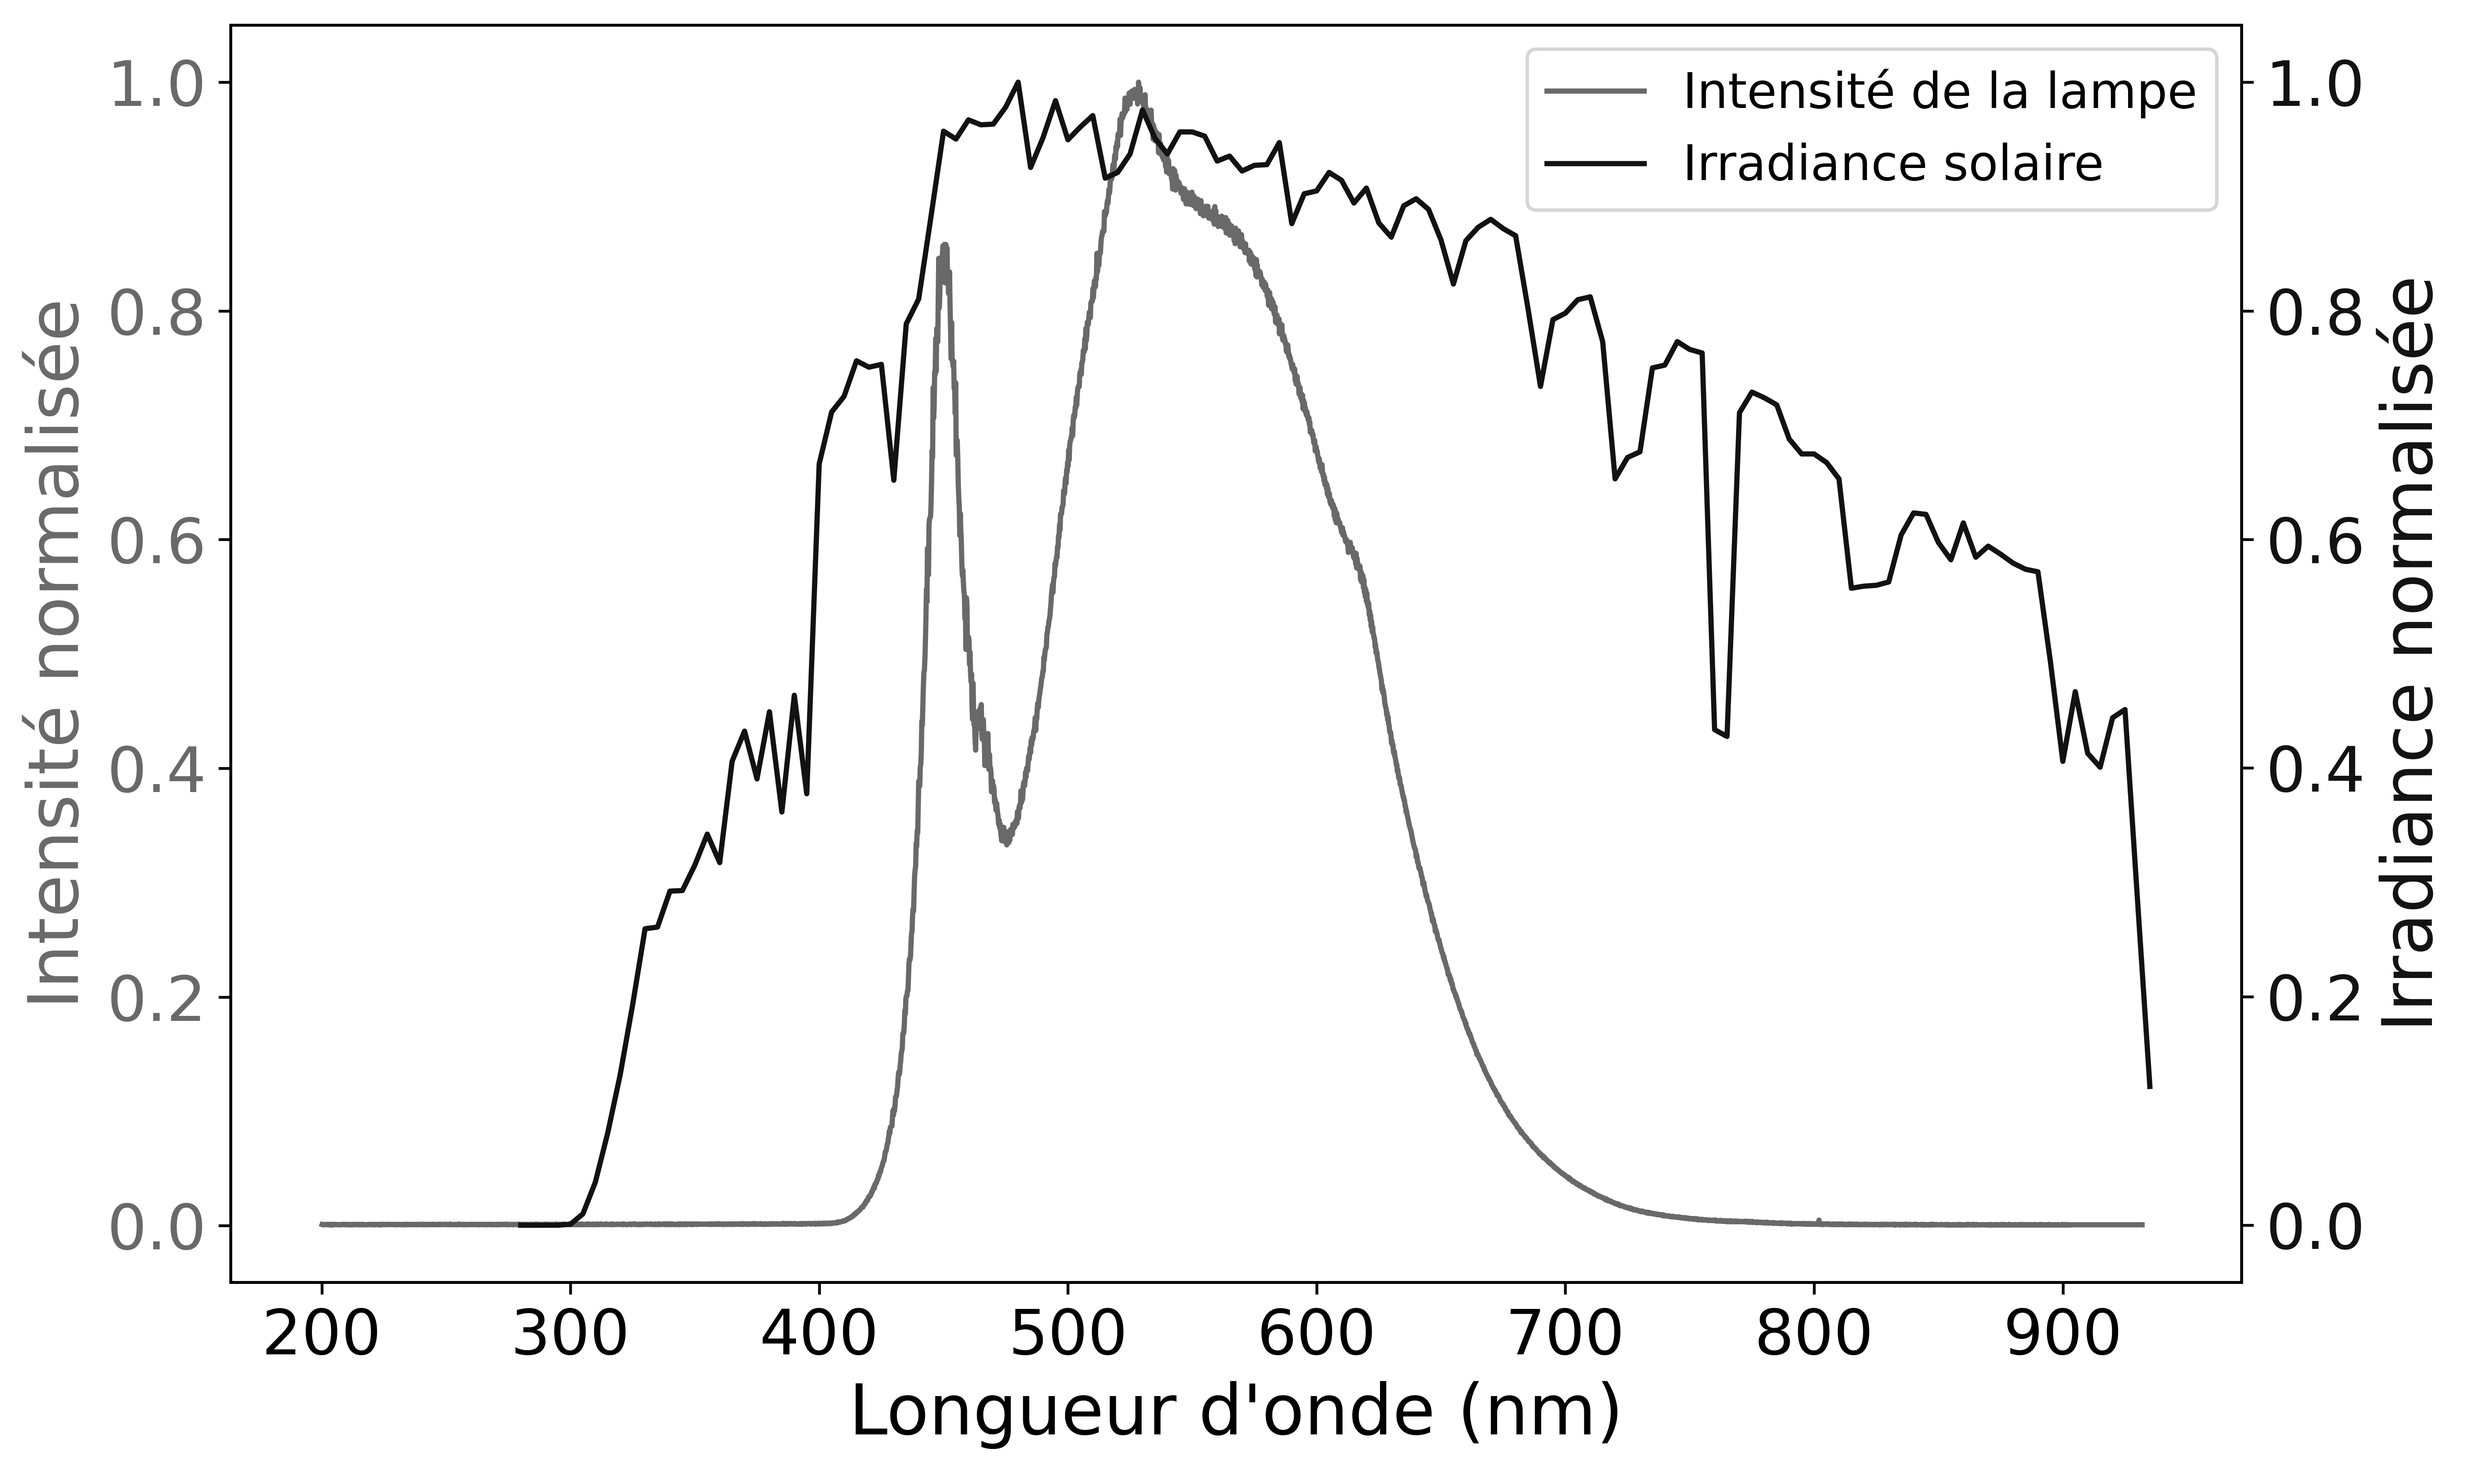
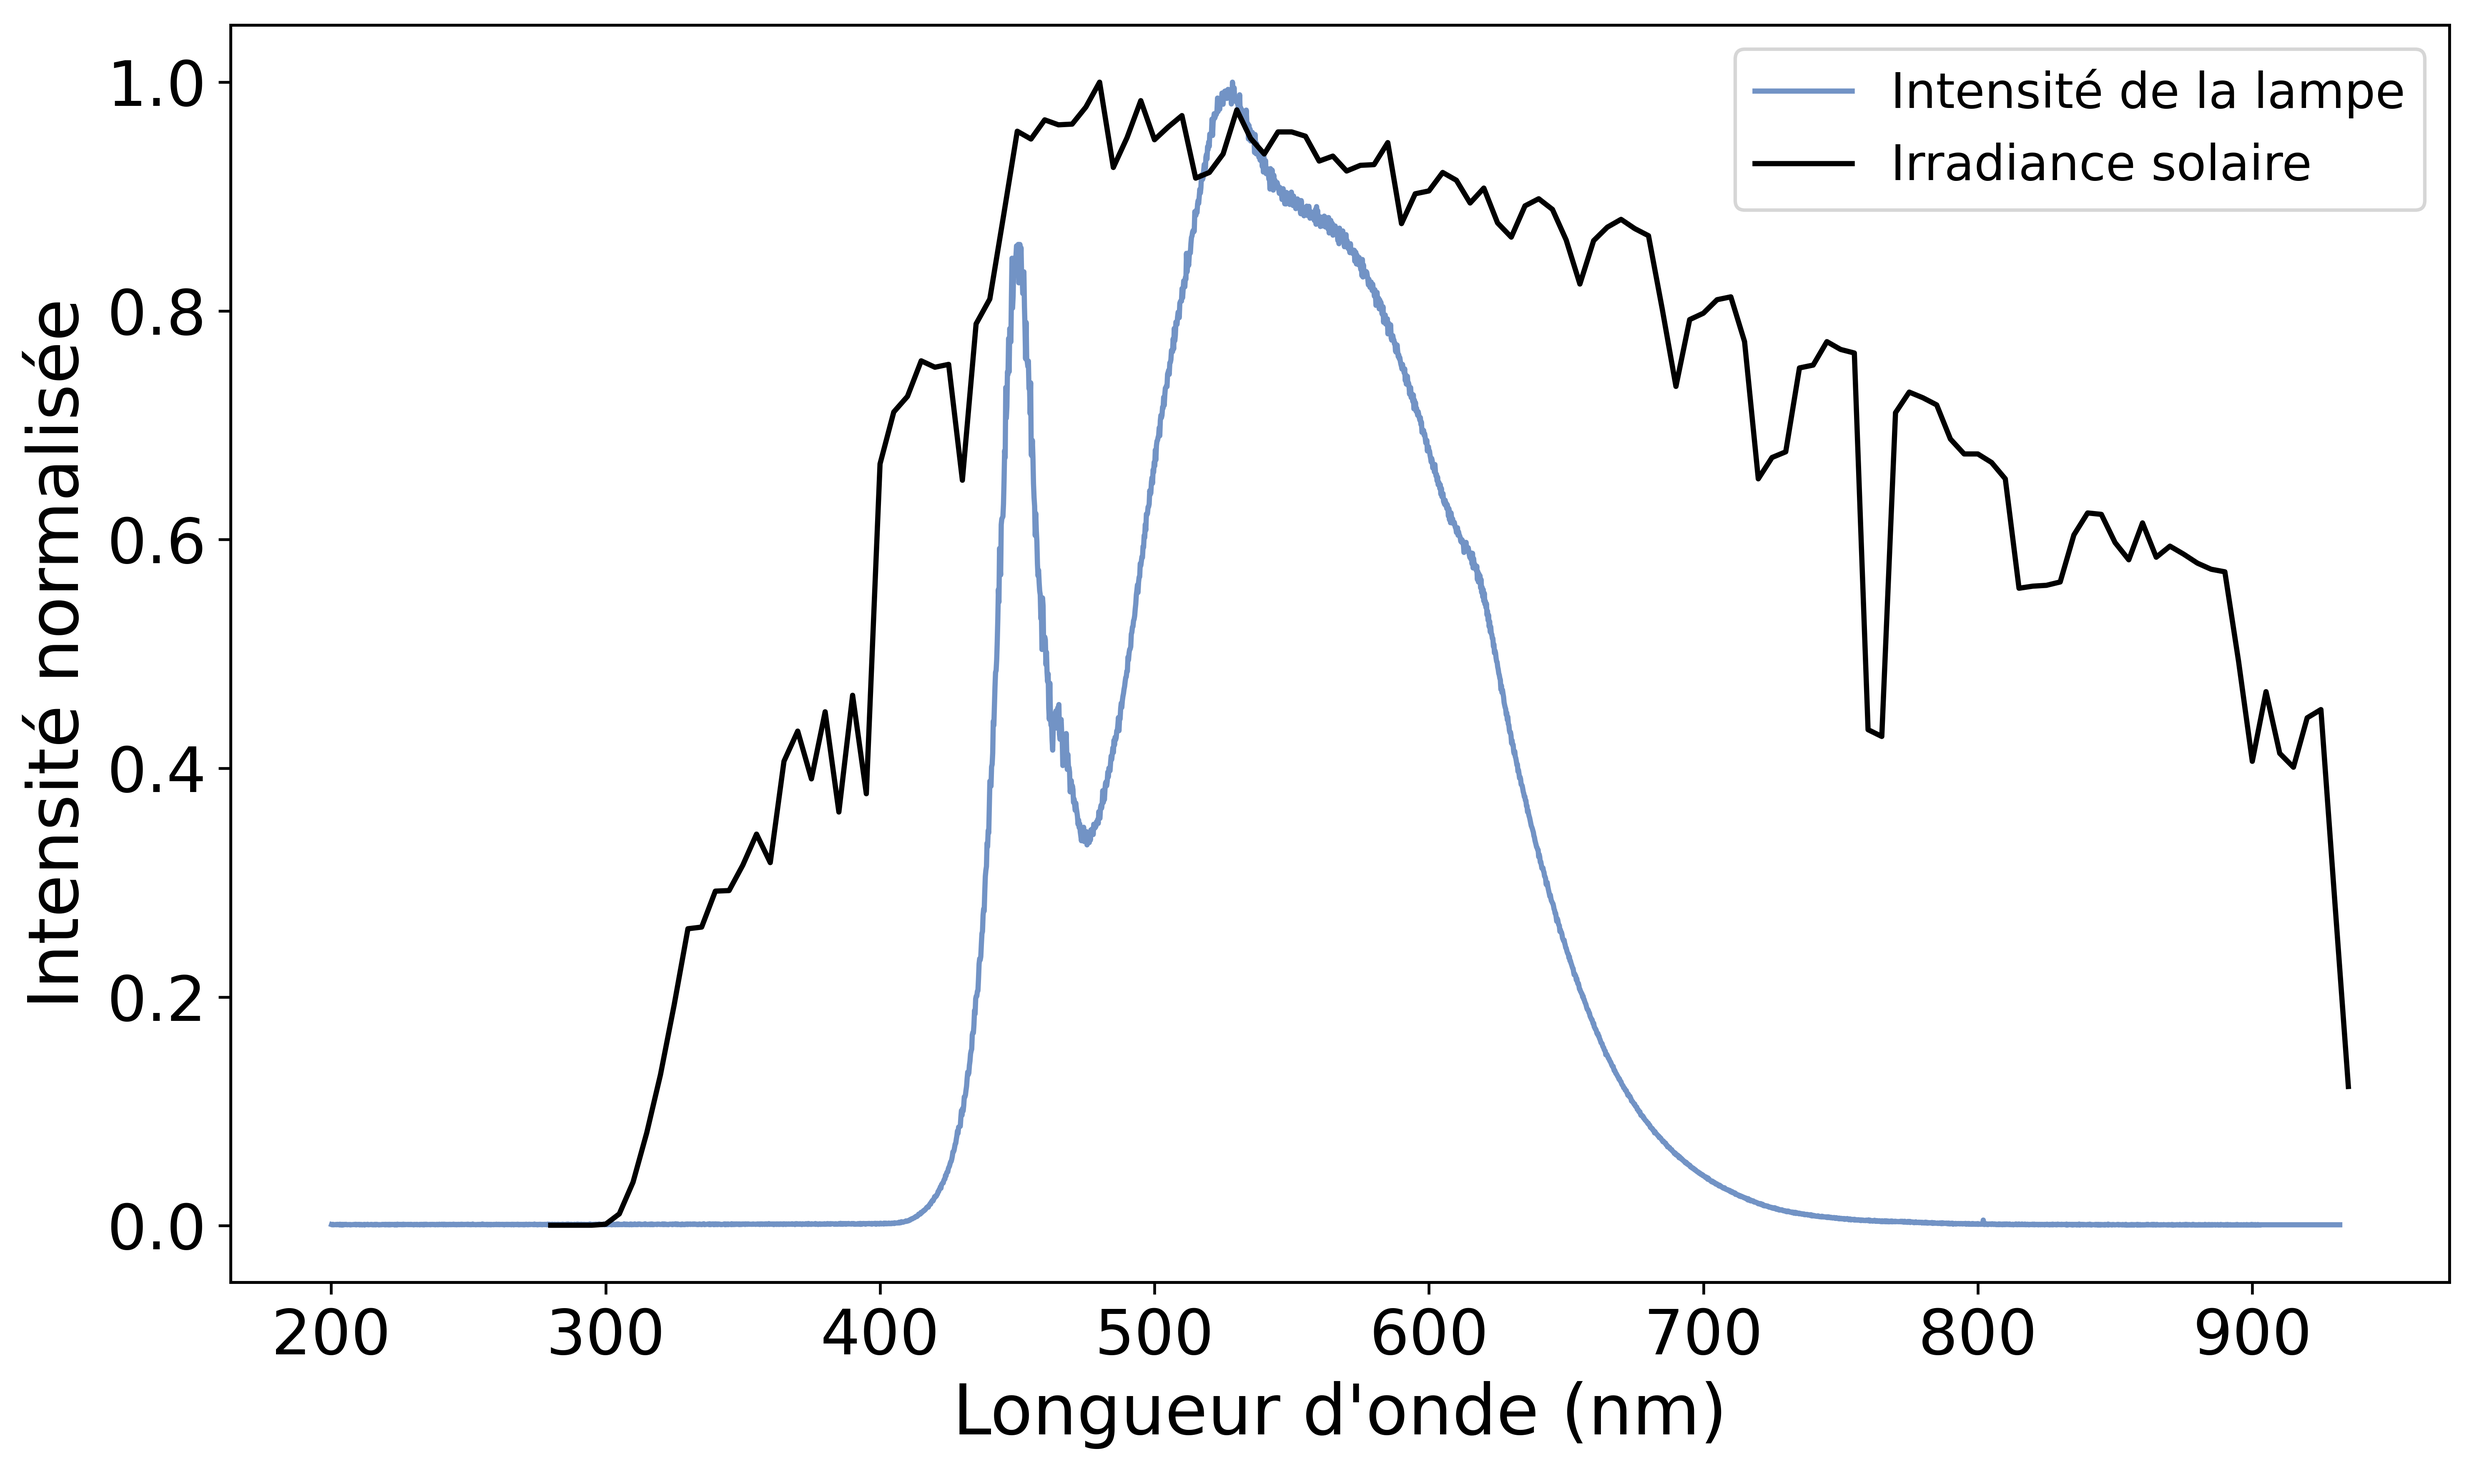
Graphique couleur + pointillé, axes dédoublés dans comparaison

diff --git a/Projet_1/intensite_x_distance.py b/Projet_1/intensite_x_distance.py
@@ -4,28 +4,27 @@ import os
 import pandas as pd
 from scipy.optimize import curve_fit
 
-#lampe 1 : MN
-#lampe 2 : MEN
-#lampe 3 : AC
-#lampe 4 : AT
-
-
-lampe_1 ="#B0B0B0"
-lampe_2 = "#727272"
-lampe_3 = "#313131"
-lampe_4 = "#000000"
+# Couleurs et styles option C
+C1, C2, C3, C4 = "black", "#7293C5", "#B99851", "#3B6D11"
+LS1, LS2, LS3, LS4 = '-', '--', ':', '-.'
 
 dossier_script = os.path.dirname(os.path.abspath(__file__))
-fichier_csv = os.path.join(dossier_script, "Projet 1.xlsx")
+fichier_xlsx = os.path.join(dossier_script, "Projet 1.xlsx")
 
-spectre = pd.read_excel(fichier_csv, sheet_name="Obj2", skiprows=1)
+df = pd.read_excel(fichier_xlsx, sheet_name="Obj2", skiprows=1)
+x  = df["Distance (cm)"].to_numpy()
+y1 = df["MN"].to_numpy()   # Lampe 1
+y2 = df["MEN"].to_numpy()  # Lampe 2
+y3 = df["AC"].to_numpy()   # Lampe 3
+y4 = df["AT"].to_numpy()   # Lampe 4
 
-x = spectre["Distance (cm)"].to_numpy()
-
-y1 = spectre["AT"].to_numpy()
-y2 = spectre["AC"].to_numpy()
-y3 = spectre["MEN"].to_numpy()
-y4 = spectre["MN"].to_numpy()
+def incertitude(y):
+    err = np.zeros_like(y, dtype=float)
+    err[y > 20000]                     = 1000  # plage 200 000 lux
+    err[(y > 2000) & (y <= 20000)]     = 100   # plage 20 000 lux
+    err[(y > 200)  & (y <= 2000)]      = 10    # plage 2 000 lux
+    err[y <= 200]                      = 1     # plage 200 lux
+    return err
 
 def modele(x, a, b):
     return a * np.exp(b * x)
@@ -40,38 +39,38 @@ def r2(y, y_pred):
     ss_tot = np.sum((y - np.mean(y)) ** 2)
     return 1 - ss_res / ss_tot
 
-x_fit = np.linspace(x.min(), x.max(), 300)
+donnees = [
+    ("Lampe 1", y1, C1, 'd', LS1),
+    ("Lampe 2", y2, C2, '^', LS2),
+    ("Lampe 3", y3, C3, 's', LS3),
+    ("Lampe 4", y4, C4, 'o', LS4),
+]
 
-params1, a = curve_fit(modele, x, y1, p0=p0_initial(x, y1), maxfev=5000)
-params2, b = curve_fit(modele, x, y2, p0=p0_initial(x, y2), maxfev=5000)
-params3, c = curve_fit(modele, x, y3, p0=p0_initial(x, y3), maxfev=5000)
-params4, d = curve_fit(modele, x, y4, p0=p0_initial(x, y4), maxfev=5000)
+x_fit = np.linspace(0, 60, 300)
+params_list = []
 
-y1_fit = modele(x_fit, *params1)
-y2_fit = modele(x_fit, *params2)
-y3_fit = modele(x_fit, *params3)
-y4_fit = modele(x_fit, *params4)
+print("=== Équations d'ajustement ===")
+for nom, y, c, m, ls in donnees:
+    p, _ = curve_fit(modele, x, y, p0=p0_initial(x, y), maxfev=5000)
+    params_list.append(p)
+    print(f"{nom}: I(x) = {p[0]:.1f} x exp({p[1]:.4f} x x)  |  R2 = {r2(y, modele(x, *p)):.4f}")
 
-print(f"AT  (4): I(x) = {params1[0]:.4f} * exp({params1[1]:.4f} * x)  |  R² = {r2(y1, modele(x, *params1)):.4f}")
-print(f"AC  (3): I(x) = {params2[0]:.4f} * exp({params2[1]:.4f} * x)  |  R² = {r2(y2, modele(x, *params2)):.4f}")
-print(f"MEN (2): I(x) = {params3[0]:.4f} * exp({params3[1]:.4f} * x)  |  R² = {r2(y3, modele(x, *params3)):.4f}")
-print(f"MN  (1): I(x) = {params4[0]:.4f} * exp({params4[1]:.4f} * x)  |  R² = {r2(y4, modele(x, *params4)):.4f}")
+fig, ax = plt.subplots(figsize=(10, 6))
 
-plt.figure(figsize=(10, 6))
-plt.plot(x, y4, label="Lampe 1", linestyle='', marker='^', markersize=4, color=lampe_1)
-plt.plot(x, y3, label="Lampe 2", linestyle='', marker='^', markersize=4, color=lampe_2, markerfacecolor='none')
-plt.plot(x, y2, label="Lampe 3", linestyle='', marker='o', markersize=4, color=lampe_3)
-plt.plot(x, y1, label="Lampe 4", linestyle='', marker='o', markersize=4, color=lampe_4, markerfacecolor='none')
+ax.axhline(10000, color='black', linestyle='--', linewidth=1.2, label='10 000 lux')
 
-plt.plot(x_fit, y4_fit, linestyle='-', color=lampe_1)
-plt.plot(x_fit, y3_fit, linestyle='-', color=lampe_2)
-plt.plot(x_fit, y2_fit, linestyle='-', color=lampe_3)  
-plt.plot(x_fit, y1_fit, linestyle='-', color=lampe_4)
+for (nom, y, c, m, ls), p in zip(donnees, params_list):
+    err = incertitude(y)
+    ax.errorbar(x, y, yerr=err, label=nom, fmt=m, markersize=5,
+                color=c, capsize=3, linestyle='', elinewidth=0.8)
+    ax.plot(x_fit, modele(x_fit, *p), linestyle=ls, color=c, linewidth=1.5, alpha=0.8)
 
-plt.xlabel("Distance (cm)", fontsize=20)
-plt.ylabel("Éclairement (lux)", fontsize=20)
-plt.xticks(fontsize=18)
-plt.yticks(fontsize=18)
-plt.legend(fontsize=20)
+ax.set_xlabel("Distance (cm)", fontsize=20)
+ax.set_ylabel("Intensite (lux)", fontsize=20)
+ax.set_xlim(-1, 60)
+ax.set_ylim(-1000, 48000)
+ax.tick_params(labelsize=18)
+ax.legend(fontsize=16)
+plt.tight_layout()
 plt.savefig("intensite_x_distance.png", bbox_inches='tight', dpi=600)
 plt.show()

diff --git a/Projet_1/Comparaison_soleil_spectre.py b/Projet_1/Comparaison_soleil_spectre.py
@@ -26,24 +26,23 @@ y_lampe_norm = y_lampe / np.max(y_lampe)
 fig, ax1 = plt.subplots(figsize=(10, 6))
 
 # axe compte
-couleur_lampe = "#696969"
+couleur_lampe = "#7293C5"
 ax1.plot(x_lampe, y_lampe_norm, color=couleur_lampe, label="Intensité de la lampe")
-ax1.set_xlabel("Longueur d'onde (nm)", fontsize=20)
-ax1.set_ylabel("Intensité normalisée", fontsize=20, color=couleur_lampe)
-ax1.tick_params(axis='y', labelcolor=couleur_lampe, labelsize=18)
+ax1.tick_params(axis='y', labelsize=18)
 ax1.tick_params(axis='x', labelsize=18)
 
 # axe irradiance
-couleur_soleil = "#121212"
+couleur_soleil = "black"
 ax2 = ax1.twinx()
 ax2.plot(x_soleil, y_soleil_norm, color=couleur_soleil, label="Irradiance solaire")
-ax2.set_ylabel("Irradiance normalisée", fontsize=20, color=couleur_soleil)
-ax2.tick_params(axis='y', labelcolor=couleur_soleil, labelsize=18)
+ax2.set_yticks([])
 
 # légende
 lines1, labels1 = ax1.get_legend_handles_labels()
 lines2, labels2 = ax2.get_legend_handles_labels()
 ax1.legend(lines1 + lines2, labels1 + labels2, fontsize=14)
+ax1.set_xlabel("Longueur d'onde (nm)", fontsize=20)
+ax1.set_ylabel("Intensité normalisée", fontsize=20)
 
 plt.tight_layout()
 plt.savefig(os.path.join(dossier_script, "spectre_combine.png"), bbox_inches='tight', dpi=600)
